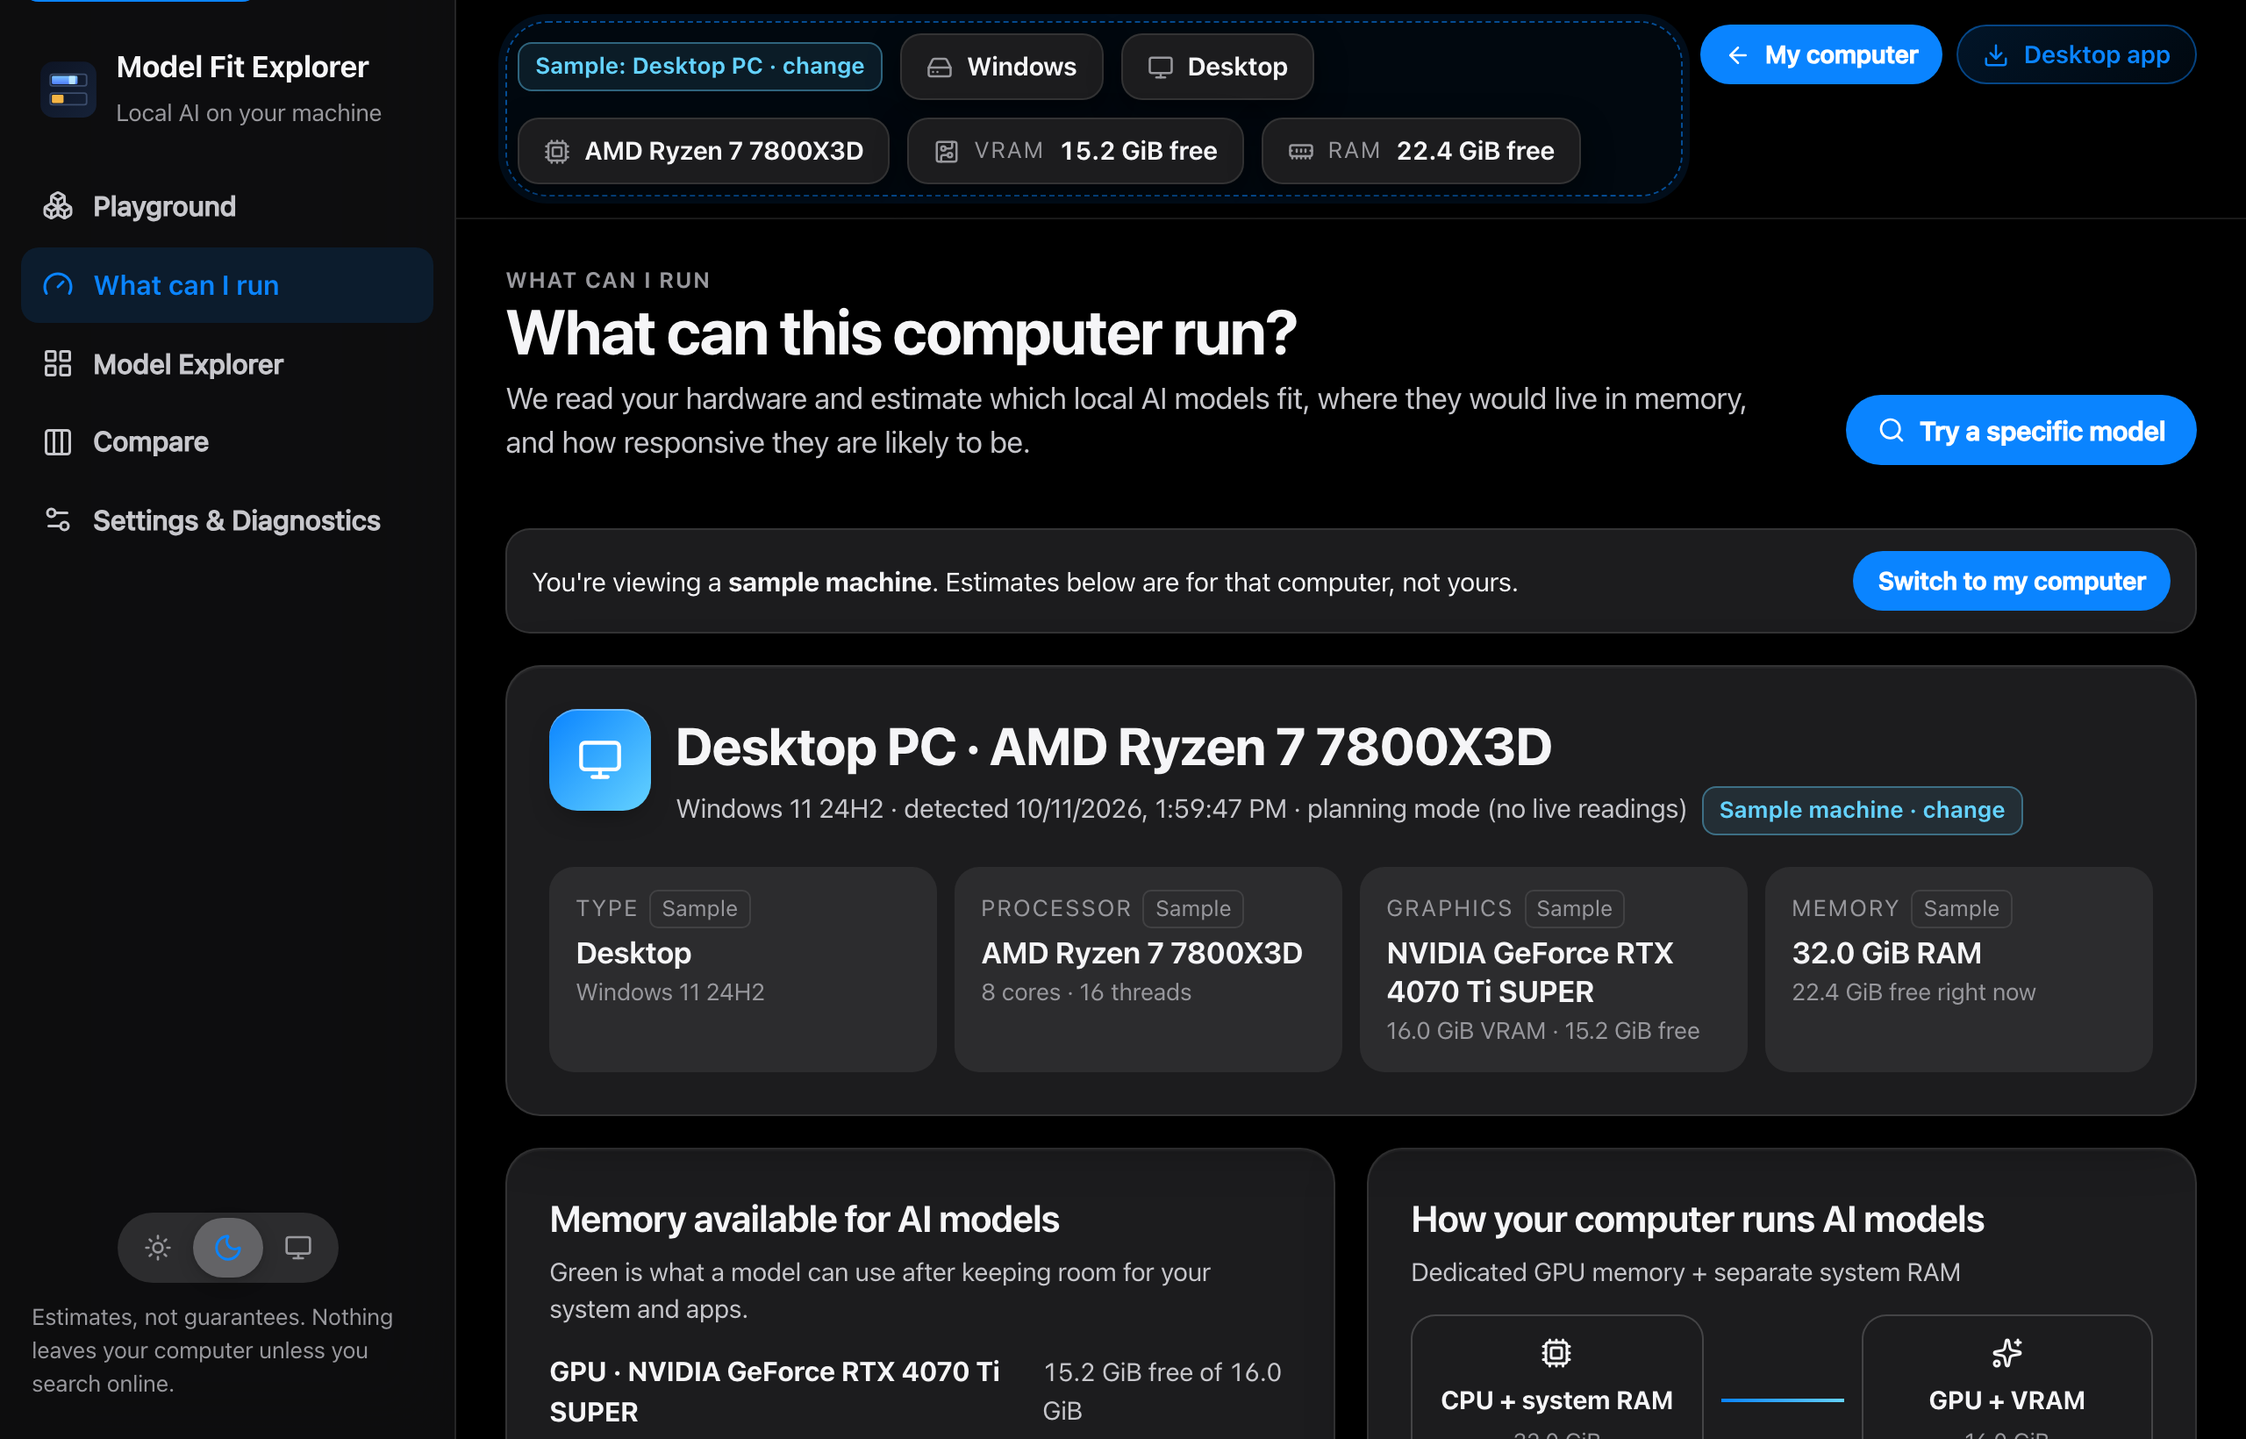
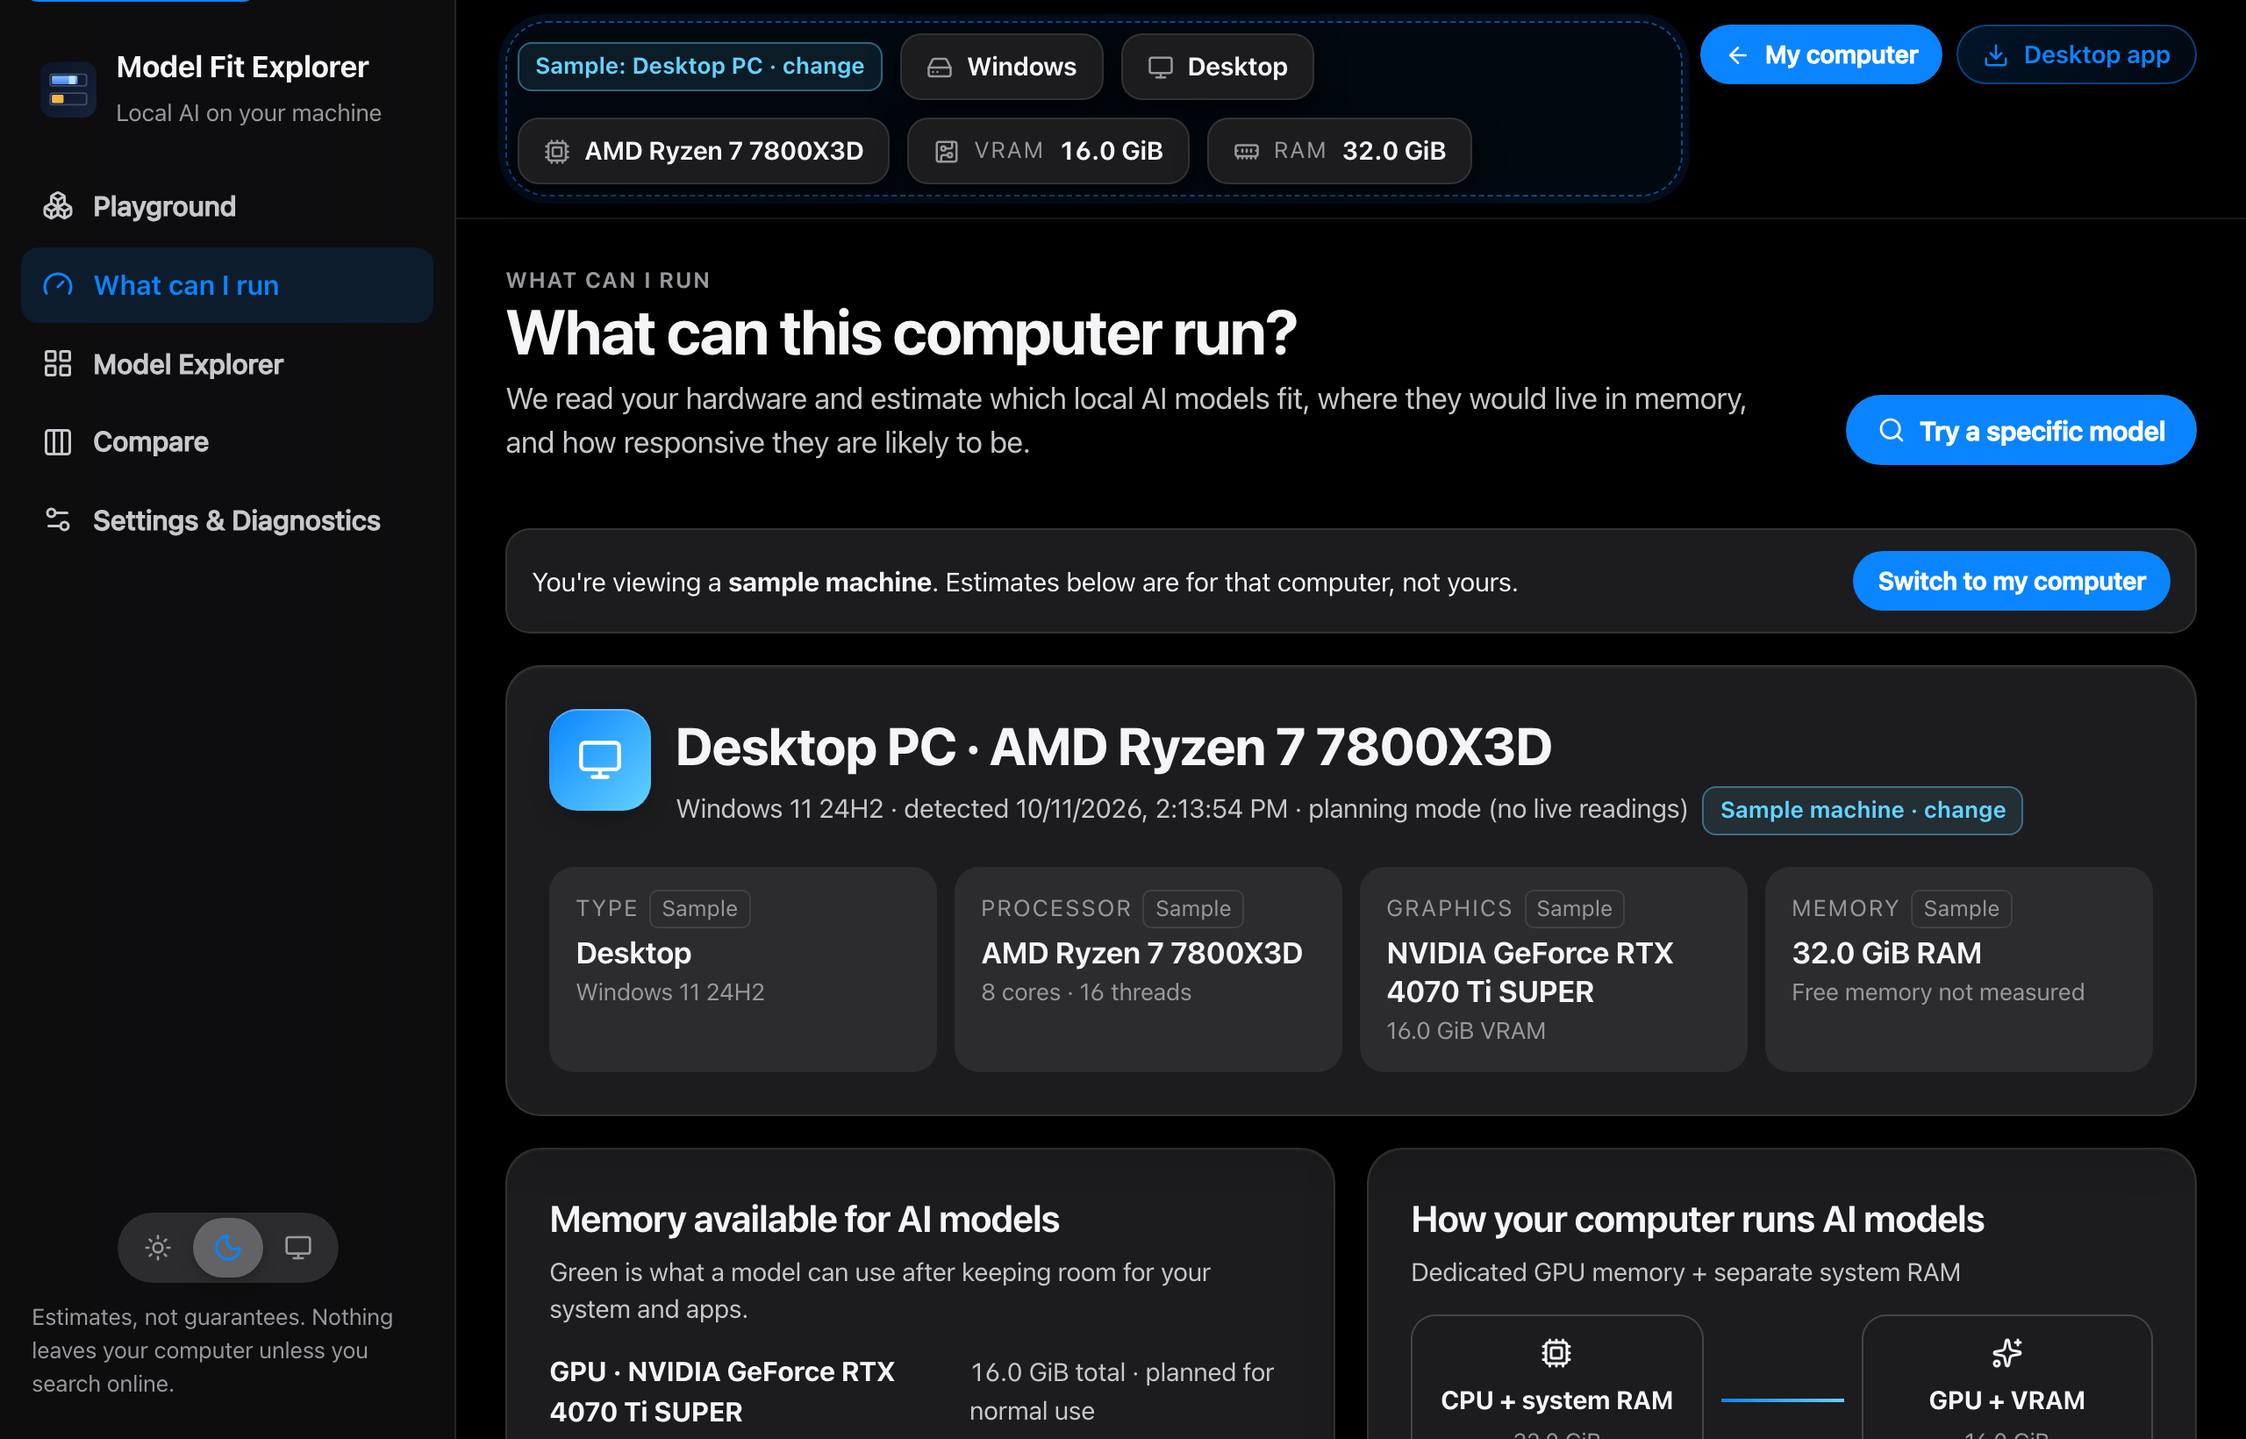
Live greyed out on samples, consistent 'People chatting at once', label fix, shorter texts

diff --git a/src/platform/samples.ts b/src/platform/samples.ts
@@ -73,7 +73,7 @@ export function shortGpu(name: string): string {
 const winOs = { name: "Windows", version: "11 24H2", arch: "x86_64" };
 const r1 = (x: number) => Math.round(x * 10) / 10;
 
-function discreteGpu(id: string, name: string, vramGiB: number, laptop: boolean): GpuDevice {
+function discreteGpu(id: string, name: string, vramGiB: number): GpuDevice {
   const spec = lookupGpu(name);
   const vendor = spec?.vendor ?? "unknown";
   return gpu({
@@ -83,13 +83,14 @@ function discreteGpu(id: string, name: string, vramGiB: number, laptop: boolean)
     vendor,
     kind: "discrete",
     dedicatedBytes: f(vramGiB * GiB, "Sample (your choice)"),
-    // The desktop uses a little VRAM for the display.
-    freeBytes: f(r1(vramGiB - (laptop ? 0.4 : 0.8)) * GiB, "Sample (typical free)", "medium"),
+    // A sample has no live reading: it is always planned with "Normal use" reserves.
+    freeBytes: f<number>(null, "Sample (planned, no live reading)", "none"),
     backendHints: vendor === "nvidia" ? ["cuda"] : vendor === "amd" ? ["rocm", "vulkan"] : [],
   });
 }
 
-const ram = (totalGiB: number, freeShare = 0.7) => ({ totalBytes: f(totalGiB * GiB, "Sample (your choice)"), availableBytes: f(r1(totalGiB * freeShare) * GiB, "Sample (typical free)", "medium") });
+// Samples have no "free right now": memory is planned with the Normal use reserves.
+const ram = (totalGiB: number) => ({ totalBytes: f(totalGiB * GiB, "Sample (your choice)"), availableBytes: f<number>(null, "Sample (planned, no live reading)", "none") });
 
 /** Builds the hardware report for a sample configuration. */
 export function buildSample(cfg: SampleConfig): DemoMachine {
@@ -109,7 +110,7 @@ export function buildSample(cfg: SampleConfig): DemoMachine {
           cpu: workstation ? { brand: "AMD Ryzen Threadripper 7960X", physicalCores: 24, logicalCores: 48 } : { brand: "AMD Ryzen 7 7800X3D", physicalCores: 8, logicalCores: 16 },
           memory: ram(cfg.ramGiB),
           memoryArchitecture: f("discrete"),
-          gpus: Array.from({ length: cfg.gpuCount }, (_, i) => discreteGpu(`gpu${i}`, cfg.gpu, cfg.vramGiB, false)),
+          gpus: Array.from({ length: cfg.gpuCount }, (_, i) => discreteGpu(`gpu${i}`, cfg.gpu, cfg.vramGiB)),
         }),
       };
     }
@@ -124,10 +125,10 @@ export function buildSample(cfg: SampleConfig): DemoMachine {
           formFactorEvidence: ["Model: Gaming laptop", "Battery present"],
           hasBattery: f(true),
           cpu: { brand: "Intel Core i7-14650HX", physicalCores: 16, logicalCores: 24 },
-          memory: ram(cfg.ramGiB, 0.65),
+          memory: ram(cfg.ramGiB),
           memoryArchitecture: f("discrete"),
           // The CPU's own graphics are there too, but models use the NVIDIA GPU.
-          gpus: [discreteGpu("gpu0", cfg.gpu, cfg.vramGiB, true), gpu({ id: "gpu1", name: "Intel UHD Graphics", vendor: "intel", kind: "integrated" })],
+          gpus: [discreteGpu("gpu0", cfg.gpu, cfg.vramGiB), gpu({ id: "gpu1", name: "Intel UHD Graphics", vendor: "intel", kind: "integrated" })],
         }),
       };
     }
@@ -145,7 +146,7 @@ export function buildSample(cfg: SampleConfig): DemoMachine {
           formFactorEvidence: [`Model: ${cfg.model}`],
           hasBattery: f(laptop),
           cpu: { brand: cfg.chip, physicalCores: null, logicalCores: null },
-          memory: ram(cfg.ramGiB, 0.67),
+          memory: ram(cfg.ramGiB),
           memoryArchitecture: f("unified"),
           unifiedGpuWorkingSetBytes: f(r1(limit) * GiB, "Sample (typical macOS GPU limit)", "medium"),
           gpus: [gpu({ id: "gpu0", name: `${cfg.chip} GPU`, vendor: "apple", kind: "unified", backendHints: ["metal"] })],
@@ -162,7 +163,7 @@ export function buildSample(cfg: SampleConfig): DemoMachine {
           formFactorEvidence: ["Model: Office laptop", "Battery present"],
           hasBattery: f(true),
           cpu: { brand: "Intel Core Ultra 5 125U", physicalCores: 12, logicalCores: 14 },
-          memory: ram(cfg.ramGiB, 0.55),
+          memory: ram(cfg.ramGiB),
           memoryArchitecture: f("integrated_shared"),
           gpus: [gpu({ id: "gpu0", name: "Intel Graphics", vendor: "intel", kind: "integrated", sharedBytes: f((cfg.ramGiB / 2) * GiB, "Sample (shares system RAM)") })],
         }),
@@ -176,7 +177,7 @@ export function buildSample(cfg: SampleConfig): DemoMachine {
         ...b.report,
         memory: {
           totalBytes: f(cfg.ramGiB * GiB, "Sample (your choice)"),
-          availableBytes: f(scale(b.report.memory.availableBytes.value), "Sample (typical free)", "medium"),
+          availableBytes: f<number>(null, "Sample (planned, no live reading)", "none"),
         },
         unifiedGpuWorkingSetBytes:
           b.report.unifiedGpuWorkingSetBytes.value != null ? f(scale(b.report.unifiedGpuWorkingSetBytes.value), b.report.unifiedGpuWorkingSetBytes.source, "medium") : b.report.unifiedGpuWorkingSetBytes,

diff --git a/src/screens/RunPage.tsx b/src/screens/RunPage.tsx
@@ -48,7 +48,7 @@ function Tank({ title, total, free, usable, limit, note }: { title: string; tota
               <AnimatedBytes bytes={free} /> free of {fmtBytes(total)}
             </>
           ) : (
-            <>{fmtBytes(total)} total · free not measured</>
+            <>{fmtBytes(total)} total · planned for normal use</>
           )}
         </span>
       </div>
@@ -312,7 +312,7 @@ export function RunPage() {
                 <span>Both read the same memory: no copying, no double counting</span>
               </div>
               <p className="muted" style={{ margin: 0, fontSize: 15 }}>
-                A model fits well when it stays under the GPU's working-set limit. Beyond that, some layers run on the CPU: same memory, slower math.
+                Fastest within the GPU's share of memory; past it, layers run on the CPU (same memory, slower).
               </p>
             </div>
           ) : machine.arch === "discrete" ? (
@@ -331,8 +331,7 @@ export function RunPage() {
                 </div>
               </div>
               <p className="muted" style={{ margin: 0, fontSize: 15 }}>
-                Fastest when the whole model fits in VRAM. If not, layers spill into system RAM and run on the CPU, which usually slows replies a lot.
-                Mixture-of-Experts models suffer less because only a few experts work on each word.
+                Fastest when the whole model fits in VRAM; layers that spill into RAM run on the slower CPU. Mixture-of-Experts models cope best.
               </p>
             </div>
           ) : (
@@ -362,8 +361,8 @@ export function RunPage() {
               )}
               <p className="muted" style={{ margin: 0, fontSize: 15 }}>
               {slowRam
-                ? `${machine.arch === "integrated_shared" ? "Ollama doesn't use this board's GPU, so models" : "Models"} run on the CPU from the board's memory, which is much slower than a PC's. Expect a few words per second: 1–4B models at Q4 are the sweet spot.`
-                : "Models run on the CPU from system RAM. Small models (1–8B at Q4) are usually pleasant; larger ones will be slow. Speed depends mostly on memory speed, so Mixture-of-Experts models are a good fit."}
+                ? `Runs on the CPU from ${machine.arch === "integrated_shared" ? "the board's memory (its GPU isn't used)" : "the board's memory"}, much slower than a PC: expect a few words per second. 1–4B models suit it best.`
+                : "Runs on the CPU from system RAM: 1–8B models feel fine, bigger ones are slow. Mixture-of-Experts models cope best."}
               </p>
             </div>
           )}
@@ -380,12 +379,12 @@ export function RunPage() {
             </p>
           </div>
           <div className="row">
-            {machine.ramFree != null && <Seg
+            {(machine.ramFree != null || hw.mode === "demo") && <Seg
               label="Memory to plan for"
-              value={settings.memoryBasis}
+              value={machine.ramFree == null ? "planning" : settings.memoryBasis}
               onChange={(v) => setSettings({ memoryBasis: v })}
               options={[
-                { value: "live", label: "Live", title: "Memory free right now, with your apps open" },
+                { value: "live", label: "Live", title: machine.ramFree == null ? "Live needs real free-memory readings from your own computer (desktop app)" : "Memory free right now, with your apps open", disabled: machine.ramFree == null },
                 { value: "planning", label: "Normal use", title: "Normal background use: keeps about 20% of memory for the system and apps" },
               ]}
             />}

diff --git a/src/screens/ModelDetail.tsx b/src/screens/ModelDetail.tsx
@@ -306,16 +306,16 @@ function Detail({ m }: { m: ModelVariant }) {
               <span style={{ color: "var(--good)" }}>●</span> published file exists · <i>italic</i> = hypothetical. {quantInfo(quant).blurb}
             </p>
 
-            {machine.ramFree != null && (<><div className="divider" />
+            {(machine.ramFree != null || hw?.mode === "demo") && (<><div className="divider" />
             <div className="control-label">
               <span>Memory to plan for</span>
             </div>
             <Seg
               label="Memory to plan for"
-              value={settings.memoryBasis}
+              value={machine.ramFree == null ? "planning" : settings.memoryBasis}
               onChange={(v) => setSettings({ memoryBasis: v })}
               options={[
-                { value: "live", label: "Live" },
+                { value: "live", label: "Live", title: machine.ramFree == null ? "Live needs real free-memory readings from your own computer (desktop app)" : "Memory free right now, with your apps open", disabled: machine.ramFree == null },
                 { value: "planning", label: "Normal use" },
               ]}
             /></>)}
@@ -334,10 +334,10 @@ function Detail({ m }: { m: ModelVariant }) {
 
             <div className="divider" />
             <div className="control-label">
-              <span>Concurrent sessions</span>
-              <span className="faint">each gets its own KV cache</span>
+              <span>People chatting at once</span>
+              <span className="faint">each needs its own chat memory</span>
             </div>
-            <Seg label="Concurrent sessions" value={settings.parallel} onChange={(v) => setSettings({ parallel: v })} options={[1, 2, 4, 8].map((n) => ({ value: n, label: n === 1 ? "1 (you)" : String(n) }))} />
+            <Seg label="People chatting at once" value={settings.parallel} onChange={(v) => setSettings({ parallel: v })} options={[1, 2, 4, 8].map((n) => ({ value: n, label: String(n) }))} />
 
             <div className="divider" />
             <div className="control-label">

diff --git a/src/domain/audit.test.ts b/src/domain/audit.test.ts
@@ -184,13 +184,15 @@ describe("third review", () => {
 });
 
 describe("Live / Normal use on samples", () => {
-  it("a sample starts on Normal use, and Live stays available", async () => {
+  it("a sample has no live reading, so it is planned with Normal use even if Live was chosen", async () => {
     const { useStore } = await import("../state/store");
     useStore.getState().setSettings({ memoryBasis: "live" });
     useStore.getState().setSample({ kind: "desktop", gpu: "GeForce RTX 4090", vramGiB: 24, gpuCount: 1, ramGiB: 64 });
     expect(useStore.getState().settings.memoryBasis).toBe("planning");
     const m = buildMachineProfile(buildSample({ kind: "desktop", gpu: "GeForce RTX 4090", vramGiB: 24, gpuCount: 1, ramGiB: 64 }).report, EMPTY_OVERRIDES);
-    expect(m.ramFree).not.toBeNull(); // so the Live choice can be shown and used
-    expect(estimate(model({ total: 8, dense: true }), settings({ memoryBasis: "live" }), m).pools.ramMode).toBe("live");
+    expect(m.ramFree).toBeNull(); // so Live is shown greyed out
+    const e = estimate(model({ total: 8, dense: true }), settings({ memoryBasis: "live" }), m);
+    expect(e.pools.ramMode).toBe("planning");
+    expect(e.pools.vramMode).toBe("planning");
   });
 });

diff --git a/src/components/ui.tsx b/src/components/ui.tsx
@@ -129,14 +129,14 @@ export function Seg<T extends string | number>({
   label,
 }: {
   value: T;
-  options: { value: T; label: ReactNode; title?: string; className?: string; dot?: boolean }[];
+  options: { value: T; label: ReactNode; title?: string; className?: string; dot?: boolean; disabled?: boolean }[];
   onChange: (v: T) => void;
   label: string;
 }) {
   return (
     <div className="seg" role="group" aria-label={label}>
       {options.map((o) => (
-        <button key={String(o.value)} type="button" aria-pressed={o.value === value} title={o.title} className={o.className} onClick={() => onChange(o.value)}>
+        <button key={String(o.value)} type="button" aria-pressed={o.value === value} title={o.title} className={o.className} disabled={o.disabled} onClick={() => !o.disabled && onChange(o.value)}>
           {o.label}
           {o.dot && <span className="dot" aria-hidden />}
         </button>

diff --git a/src/screens/Playground.tsx b/src/screens/Playground.tsx
@@ -198,7 +198,7 @@ export function Playground() {
               <div className="control-label">
                 <span>People chatting at once</span>
               </div>
-              <Seg label="Sessions" value={p.sessions} onChange={(v) => set({ sessions: v })} options={[1, 2, 4].map((n) => ({ value: n, label: String(n) }))} />
+              <Seg label="People chatting at once" value={p.sessions} onChange={(v) => set({ sessions: v })} options={[1, 2, 4, 8].map((n) => ({ value: n, label: String(n) }))} />
             </div>
           </div>
 

diff --git a/src/styles/app.css b/src/styles/app.css
@@ -947,7 +947,7 @@ input[type="range"] {
   pointer-events: none;
   animation: pulse 2.6s ease-in-out infinite;
 }
-.active-overlay span {
+.active-overlay > span {
   position: absolute;
   top: -22px;
   left: 0;
@@ -3986,4 +3986,10 @@ a.btn:hover {
 .lane-segs {
   max-width: 100%;
   overflow: hidden;
+}
+
+/* a choice that doesn't apply here (e.g. Live on a sample machine) */
+.seg button:disabled {
+  opacity: 0.4;
+  cursor: not-allowed;
 }

diff --git a/CHANGELOG.md b/CHANGELOG.md
@@ -2,6 +2,12 @@
 
 Short, user-facing notes. The section for each version is shown in the app's update window.
 
+## 1.1.4
+- Sample machines always plan with "Normal use"; Live is greyed out there (it needs your own computer)
+- "People chatting at once" everywhere (1, 2, 4 or 8)
+- Fixed the "Active per token" label splitting over two lines
+- Shorter explanations under "How your computer runs AI models"
+
 ## 1.1.3
 - Two graphics cards: the top bar, Graphics card and memory bar now show both cards together
 - Macs and boards: lowering the memory also lowers the GPU's share, never more than the memory
